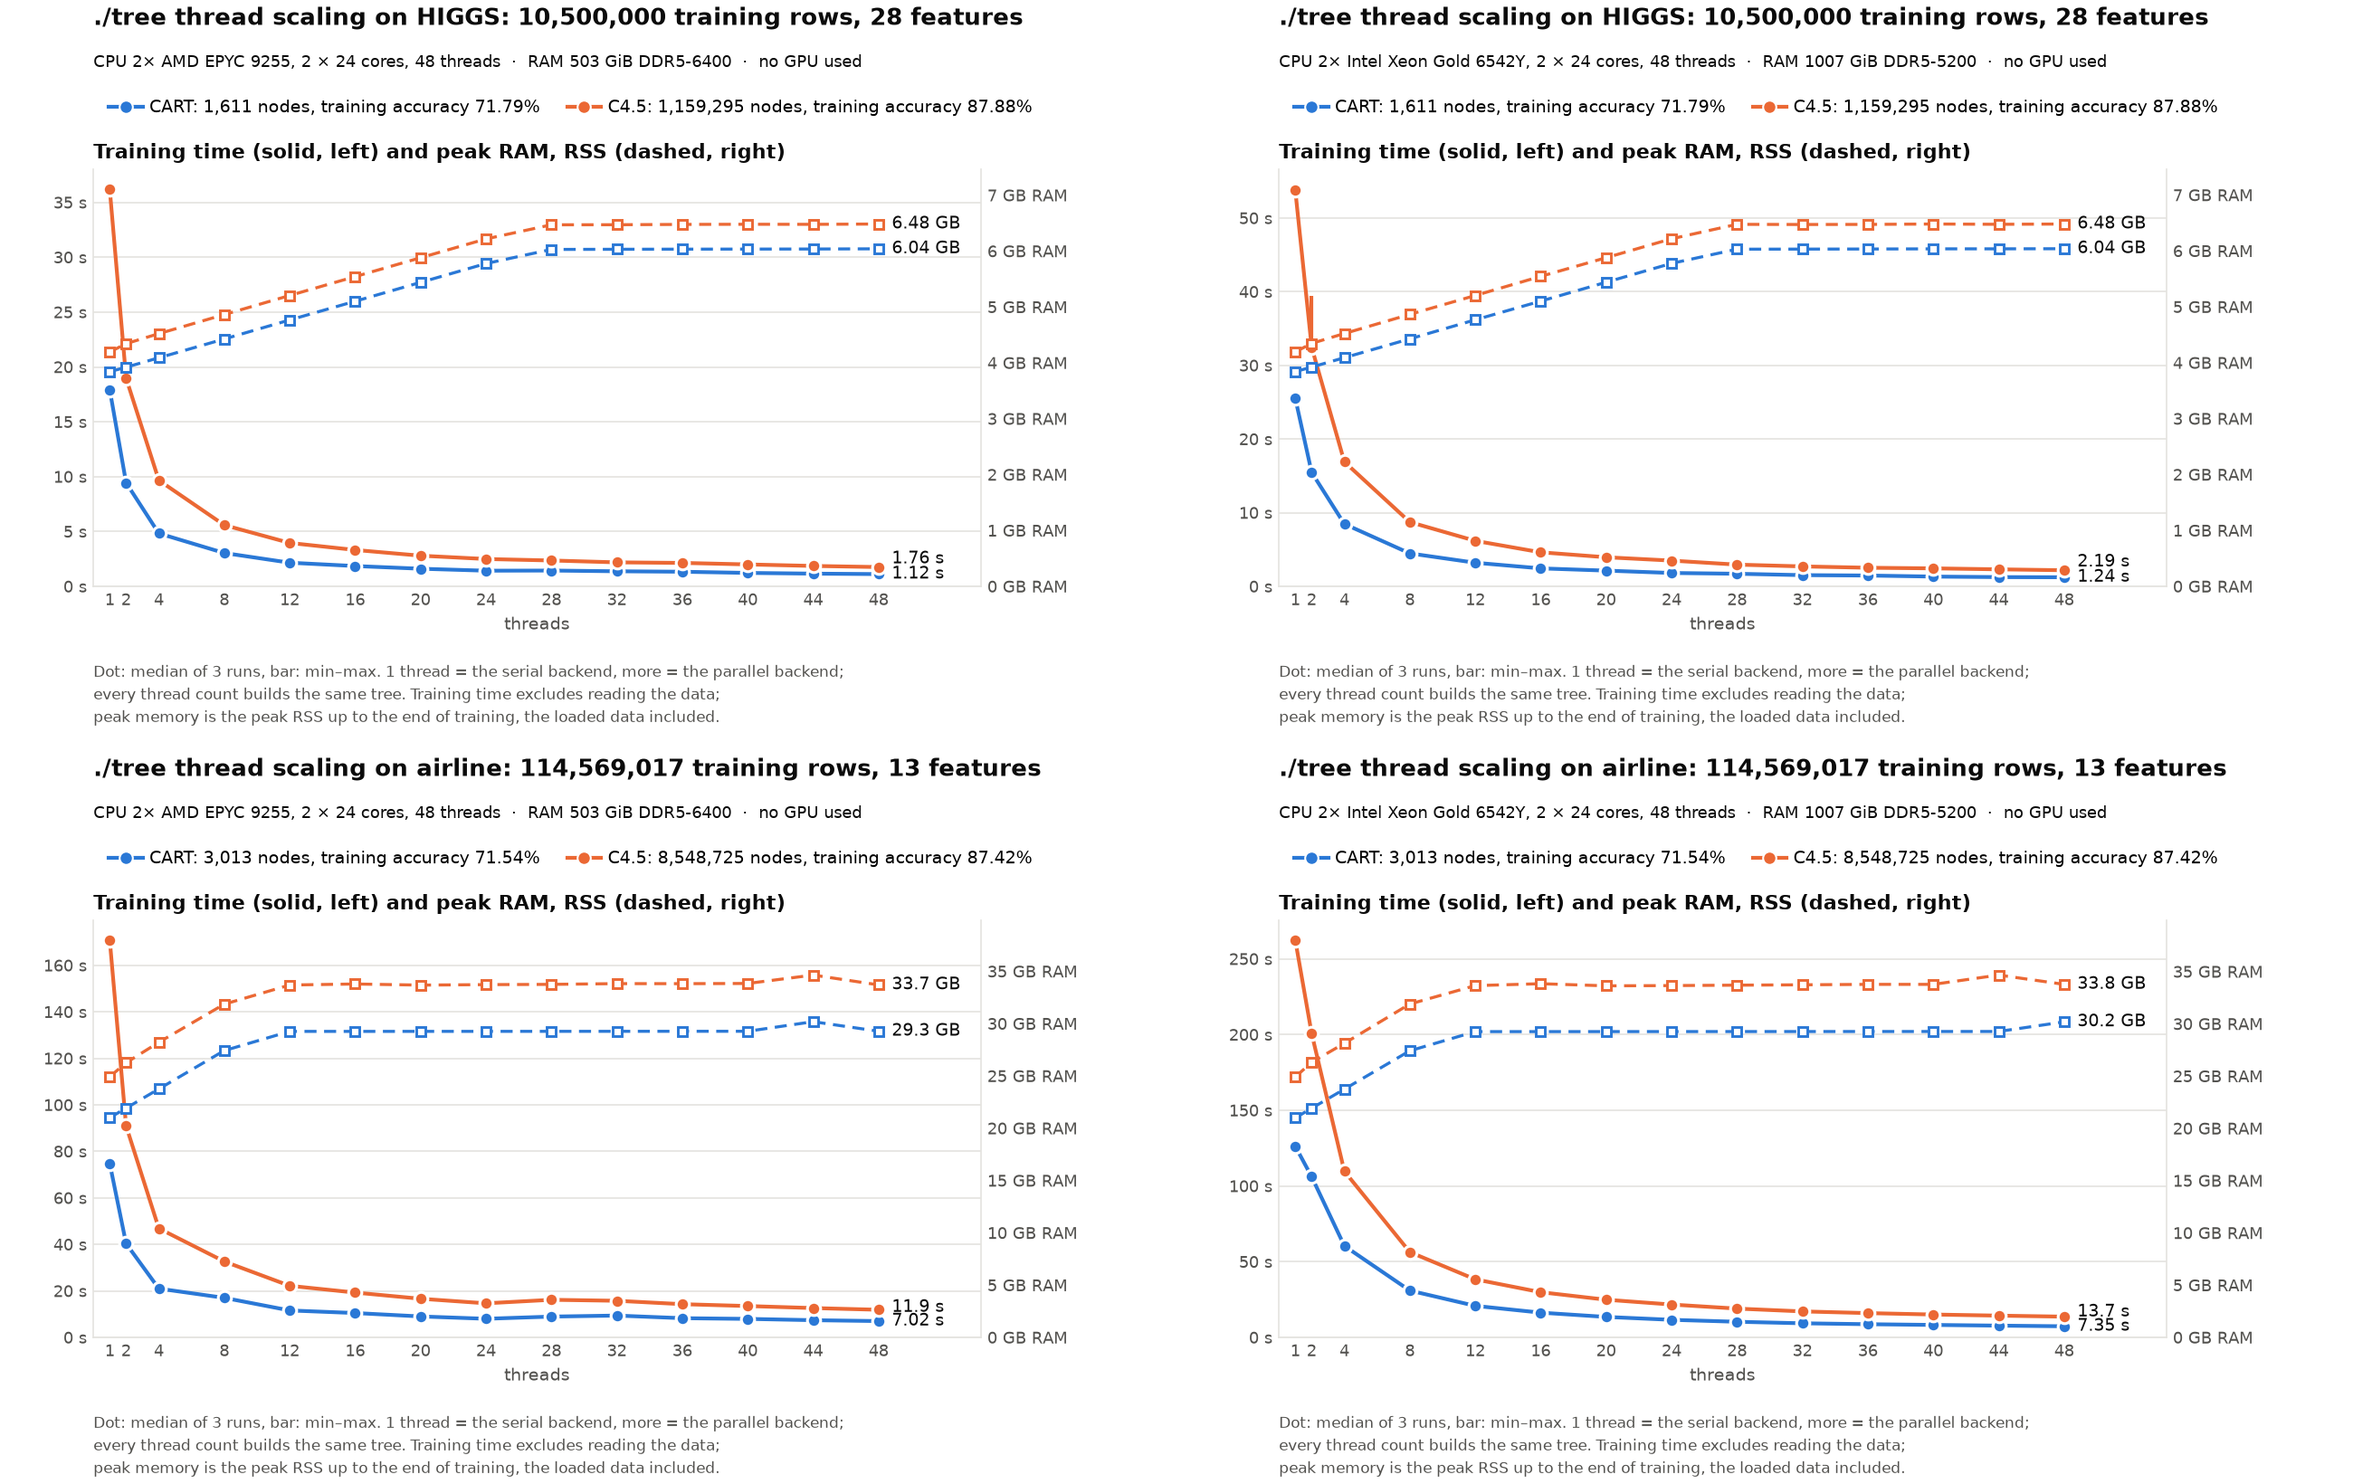
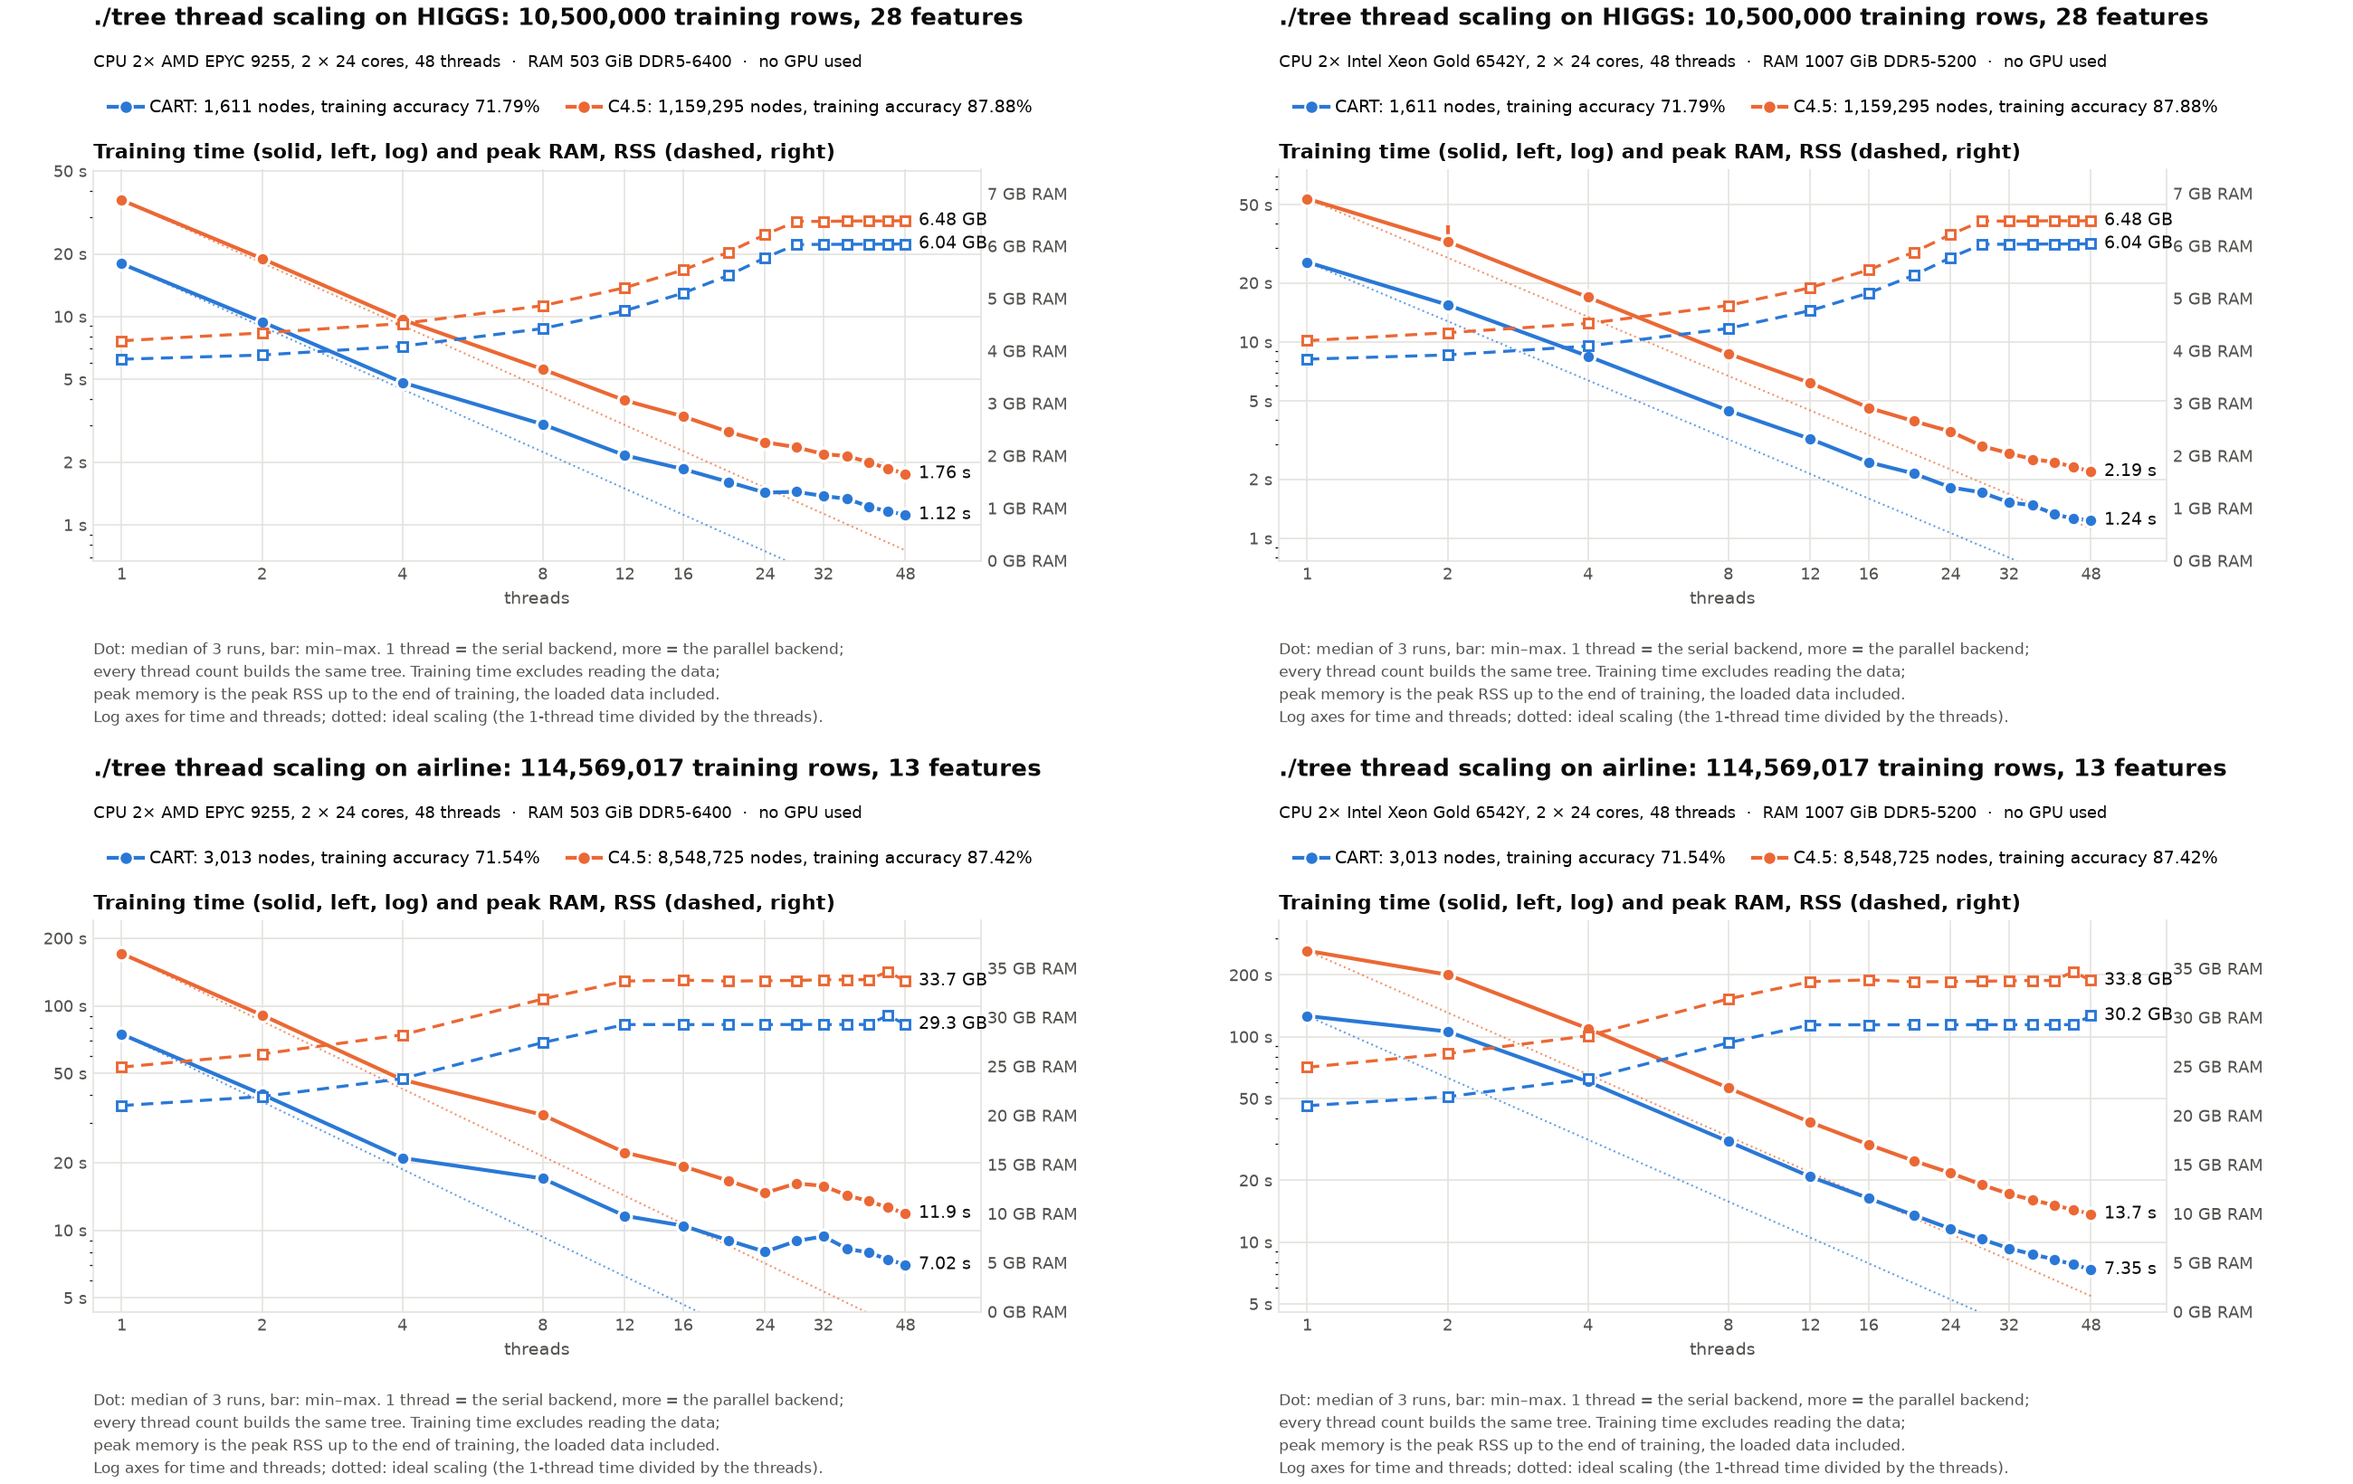
Log scales where the bars span 10x: machines charts by default, gpu-libs time panels, thread scaling log-log
machines_chart.py: --log is the default when the slowest bar takes 10x the
fastest (--linear: never). summarize.py (gpu-libs): the same rule per time
panel. scaling_chart.py: threads and time on log axes with a dotted ideal
scaling line; memory stays linear. Redrawn: cluster-cpu-scaling, gpu-libs.

diff --git a/bench/scaling_chart.py b/bench/scaling_chart.py
@@ -2,6 +2,8 @@
 """Thread-scaling chart of ./tree: training time (solid lines, left axis) and peak
 memory (dashed lines, right axis) against the number of threads, one colour per
 protocol (CART, C4.5); dot = median over the runs, bar = min-max of the time.
+Threads and time on log axes, so that ideal scaling (dotted: the 1-thread time
+divided by the threads) is a straight line; memory on a linear axis.
 
 Also writes scaling.csv: one row per (protocol, threads) with the median time,
 speedup over 1 thread (serial backend), parallel efficiency and peak RSS.
@@ -21,7 +23,7 @@ import matplotlib
 matplotlib.use("Agg")
 import matplotlib.pyplot as plt  # noqa: E402
 from matplotlib.lines import Line2D  # noqa: E402
-from matplotlib.ticker import FuncFormatter  # noqa: E402
+from matplotlib.ticker import FuncFormatter, LogLocator, NullFormatter, NullLocator  # noqa: E402
 
 import benchlib as B  # noqa: E402
 from chart import GRID, INK, MUTED, NAMES  # noqa: E402
@@ -81,17 +83,21 @@ def figure(run, dataset, protocols, series, machine, out):
     meta = json.load(open(run / "plan.json"))["datasets"][dataset]
     threads = sorted({p["threads"] for points in series.values() for p in points})
     fig, ax = plt.subplots(figsize=(8.6, 5.4))
-    ax.set_xlim(0, max(threads) * 1.13)  # room for the end labels
-    ax.set_xticks(threads)
+    ax.set_xscale("log", base=2)
+    ax.set_xlim(min(threads) / 1.15, max(threads) * 1.45)  # room for the end labels
+    ax.xaxis.set_minor_locator(NullLocator())
+    ax.set_xticks([t for t in threads if t in (1, 2, 4, 8, 12, 16, 24, 32, 48, 64, 96, 128)
+                   or t == max(threads)])
+    ax.xaxis.set_major_formatter(FuncFormatter(lambda v, _: f"{v:g}"))
     ax.tick_params(colors=MUTED, labelsize=8.5, length=0)
     for side in ("top", "right"):
         ax.spines[side].set_visible(False)
     for side in ("left", "bottom"):
         ax.spines[side].set_color(GRID)
-    ax.grid(axis="y", color=GRID, linewidth=0.8)
+    ax.grid(axis="both", color=GRID, linewidth=0.8)
     ax.set_axisbelow(True)
     ax.set_xlabel("threads", fontsize=9, color=MUTED)
-    ax.set_title("Training time (solid, left) and peak RAM, RSS (dashed, right)", loc="left",
+    ax.set_title("Training time (solid, left, log) and peak RAM, RSS (dashed, right)", loc="left",
                  fontsize=10.5, color=INK, fontweight="bold")
     mem = ax.twinx()
     mem.tick_params(colors=MUTED, labelsize=8.5, length=0)
@@ -102,6 +108,10 @@ def figure(run, dataset, protocols, series, machine, out):
     for protocol in protocols:
         points, color = series[protocol], COLORS.get(protocol, INK)
         xs = [p["threads"] for p in points]
+        serial = next((p["time_median"] for p in points if p["threads"] == 1), None)
+        if serial:  # ideal scaling: n threads take 1/n of the serial time
+            ax.plot(xs, [serial / x for x in xs], color=color, linewidth=1, linestyle=":",
+                    alpha=0.7, zorder=1)
         ax.plot(xs, [p["time_median"] for p in points], color=color, linewidth=2, marker="o",
                 markersize=7, markeredgecolor="white", markeredgewidth=1.5, zorder=3)
         ax.vlines(xs, [p["time_min"] for p in points], [p["time_max"] for p in points],
@@ -109,7 +119,11 @@ def figure(run, dataset, protocols, series, machine, out):
         mem.plot(xs, [p["peak_rss_median"] / 1e9 for p in points], color=color, linewidth=1.6,
                  linestyle=(0, (4, 2.5)), marker="s", markersize=5, markerfacecolor="white",
                  markeredgecolor=color, markeredgewidth=1.4, zorder=3)
-    ax.set_ylim(bottom=0)
+    every = [p[k] for points in series.values() for p in points for k in ("time_min", "time_max")]
+    ax.set_yscale("log")
+    ax.set_ylim(min(every) / 1.6, max(every) * 1.4)
+    ax.yaxis.set_major_locator(LogLocator(base=10, subs=(1, 2, 5)))
+    ax.yaxis.set_minor_formatter(NullFormatter())
     ax.yaxis.set_major_formatter(FuncFormatter(lambda v, _: f"{v:g} s"))
     mem.set_ylim(0, 1.15 * max(p["peak_rss_median"] for points in series.values()
                                for p in points) / 1e9)
@@ -161,9 +175,10 @@ def figure(run, dataset, protocols, series, machine, out):
     fig.text(0.08, 0.015,
              f"Dot: {runs}. 1 thread = the serial backend, more = the parallel backend;\n"
              "every thread count builds the same tree. Training time excludes reading the data;\n"
-             "peak memory is the peak RSS up to the end of training, the loaded data included.",
+             "peak memory is the peak RSS up to the end of training, the loaded data included.\n"
+             "Log axes for time and threads; dotted: ideal scaling (the 1-thread time divided by the threads).",
              fontsize=8, color=MUTED, linespacing=1.5)
-    fig.subplots_adjust(left=0.08, right=0.84, top=1 - 1.25 / 5.4, bottom=0.2)
+    fig.subplots_adjust(left=0.08, right=0.84, top=1 - 1.25 / 5.4, bottom=0.235)
     fig.savefig(out, dpi=150, facecolor="white")
     return out
 

diff --git a/bench/results/cluster-tree-vs-gpu-libs/scripts/summarize.py b/bench/results/cluster-tree-vs-gpu-libs/scripts/summarize.py
@@ -19,7 +19,7 @@ import numpy as np
 import matplotlib
 matplotlib.use("Agg")
 import matplotlib.pyplot as plt  # noqa: E402
-from matplotlib.ticker import FuncFormatter  # noqa: E402
+from matplotlib.ticker import FuncFormatter, NullFormatter  # noqa: E402
 
 DATASETS = {"higgs": "HIGGS: 10,500,000 training rows, 28 features",
             "airline": "airline: 114,569,017 training rows, 13 features",
@@ -138,6 +138,8 @@ def chart(rows, dataset, path):
         mem = fig.add_subplot(grid[row_index, 1], sharey=ax)
         info = fig.add_subplot(grid[row_index, 2], sharey=ax)
         tmax = max(r["median_s"] for r in cr)
+        tmin = min(r["median_s"] for r in cr)
+        log = tmax >= 10 * tmin  # log time axis when the slowest bar is 10x the fastest
         mmax = max(r["gpu_peak_mib"] for r in cr) / 1024
         for i, node in enumerate(NODES):
             got = {r["impl"]: r for r in cr if r["node"] == node}
@@ -147,13 +149,18 @@ def chart(rows, dataset, path):
                     continue
                 v = got[k]["median_s"]
                 ax.barh(p, v, height=0.38, color=COLORS[node])
-                ax.text(v + tmax * 0.012, p, f"{v:.2f} s", va="center", fontsize=8.5, color=INK,
+                ax.text(v * 1.05 if log else v + tmax * 0.012, p, f"{v:.2f} s", va="center", fontsize=8.5, color=INK,
                         fontweight="bold" if is_tree(k) else "normal")
                 g = got[k]["gpu_peak_mib"] / 1024
                 mem.barh(p, g, height=0.34, facecolor="white", edgecolor=COLORS[node],
                          linewidth=1.6)
                 mem.text(g + mmax * 0.02, p, f"{g:.2f} GiB", va="center", fontsize=8.5, color=INK)
-        ax.set_xlim(0, tmax * 1.12)
+        if log:
+            ax.set_xscale("log")
+            ax.set_xlim(10 ** np.floor(np.log10(tmin)), tmax * 2.2)  # room for the labels
+            ax.xaxis.set_minor_formatter(NullFormatter())
+        else:
+            ax.set_xlim(0, tmax * 1.12)
         ax.set_ylim(-0.6, len(keys) - 0.4)
         ax.xaxis.set_major_formatter(FuncFormatter(lambda v, _: f"{v:g} s"))
         style(ax)
@@ -161,7 +168,7 @@ def chart(rows, dataset, path):
         for label, k in zip(ax.get_yticklabels(), keys):
             label.set_fontweight("bold" if is_tree(k) else "normal")
             label.set_color(INK)
-        ax.set_title(f"{CASES[case]}: training time", loc="left", fontsize=11, color=INK,
+        ax.set_title(f"{CASES[case]}: training time" + (" (log scale)" if log else ""), loc="left", fontsize=11, color=INK,
                      fontweight="bold", pad=10)
         mem.set_xlim(0, mmax * 1.3)
         mem.xaxis.set_major_formatter(FuncFormatter(lambda v, _: f"{v:g} GiB"))
@@ -198,7 +205,7 @@ def chart(rows, dataset, path):
     fig.text(0.01, 0.012,
              f"Time: median of {run_text} runs, from host memory to the finished tree (copy to the "
              "GPU, binning or presort, growing). VRAM: peak GPU memory above idle, CUDA context and "
-             "memory pools included (nvidia-smi, every 20 ms).\n"
+             "memory pools included (nvidia-smi, every 20 ms). Time on a log axis where the slowest bar is 10x the fastest.\n"
              "Bins: the libraries split only at the edges of per-feature quantile bins; ./tree tests "
              "every distinct value. Same as ./tree: share of test rows classified as by ./tree's tree.\n"
              "C4.5: ./tree follows Quinlan's C4.5 (gain ratio, MDL-corrected thresholds, at least 2 rows "

diff --git a/bench/machines_chart.py b/bench/machines_chart.py
@@ -19,9 +19,10 @@ prepared files in plan.json) or did not build the same trees.
 run and a dot per run, and writes their min and max.
 
 --log draws the time and memory axes on a log scale (sizes that differ by
-orders of magnitude, e.g. serial against CUDA) and writes every case's recorded
-pruning time next to its bar (if any), also for the unpruned protocols (where it
-is only C4.5's collapse of useless splits) and below 1%.
+orders of magnitude, e.g. serial against CUDA), the default when the slowest
+bar takes 10 times the fastest or more (--linear: never), and writes every
+case's recorded pruning time next to its bar (if any), also for the unpruned
+protocols (where it is only C4.5's collapse of useless splits) and below 1%.
 
 --more adds the cases of later runs kept in another directory under the same
 run names (e.g. cluster-ecbdl/unpruned/cpu-epyc-ecbdl next to
@@ -198,8 +199,12 @@ def main():
                         help="draw each time bar's min-max whisker and every run as a dot")
     parser.add_argument("--no-vram", action="append", default=[], metavar="RUN",
                         help="a run name whose VRAM sample is wrong: drawn without VRAM (repeatable)")
-    parser.add_argument("--log", action="store_true",
-                        help="log-scale axes, and every case's recorded pruning time")
+    scale = parser.add_mutually_exclusive_group()
+    scale.add_argument("--log", action="store_true", default=None,
+                       help="log-scale axes, and every case's recorded pruning time "
+                       "(default: when the slowest bar takes 10× the fastest or more)")
+    scale.add_argument("--linear", dest="log", action="store_false",
+                       help="linear axes, however far apart the bars are")
     parser.add_argument("--more", action="append", type=Path, default=[],
                         help="a directory with later runs of the same names, e.g. other "
                         "protocols (repeatable)")
@@ -208,13 +213,14 @@ def main():
     NO_VRAM.update(args.no_vram)
     global SPREAD, LOG
     SPREAD = args.spread
-    LOG = args.log
     PROTOCOLS.clear()
     PROTOCOLS.update((p, TITLES[p]) for p in args.protocols.split(","))
     runs = list(args.reference) + list(args.runs)
     out = args.out or args.runs[0] / "chart.png"
     dataset, meta = check_same(runs)
     entries = [b for run in runs for b in bars(run, run in args.reference)]
+    times = [e["time"] for e in entries]
+    LOG = args.log if args.log is not None else max(times) >= 10 * min(times)
     for protocol in PROTOCOLS:
         trees = {e["tree"][:2] for e in entries if e["protocol"] == protocol}
         if len(trees) > 1:

diff --git a/bench/results/cluster-tree-vs-gpu-libs/BENCHMARK.md b/bench/results/cluster-tree-vs-gpu-libs/BENCHMARK.md
@@ -283,7 +283,7 @@ venv/bin/python summarize.py results <out dir>
 
 | File | Content |
 |---|---|
-| `chart-higgs.png`, `chart-airline.png`, `chart-ecbdl_15m.png`, `chart-chess_1b.png` | Per dataset, CART and C4.5: training time per library and GPU, peak VRAM, and each tree's node count, depth, test accuracy and agreement with ./tree |
+| `chart-higgs.png`, `chart-airline.png`, `chart-ecbdl_15m.png`, `chart-chess_1b.png` | Per dataset, CART and C4.5: training time per library and GPU (log axis where the slowest bar is 10× the fastest), peak VRAM, and each tree's node count, depth, test accuracy and agreement with ./tree |
 | `summary.csv` | One row per dataset, node, case and library: times, tree size, accuracies, agreement, VRAM, root split |
 | `higgs/`, `airline/`, `ecbdl_15m/`, `chess_1b/` | `<node>/results.jsonl` (every run), `<node>/machine.json` |
 | `scripts/` | `build.sh`, `job.sh` (SLURM), `gpubench.py` (cuML, XGBoost), `treebench.py` (./tree), `summarize.py` (tables and charts), `requirements-freeze.txt` |

diff --git a/bench/results/cluster-cpu-scaling/BENCHMARK.md b/bench/results/cluster-cpu-scaling/BENCHMARK.md
@@ -29,7 +29,7 @@ bench/cluster/scaling.sh -m 3 -d airline   # airline
 
 So on epyc1 up to 24 threads stay on one socket, and the second socket joins from 28 on. On dell1 every thread count from 2 on is spread over both sockets.
 
-All four charts in one image (HIGGS above airline, epyc left, dell right):
+All four charts in one image (HIGGS above airline, epyc left, dell right). Threads and time are on log axes, so ideal scaling (dotted: the 1-thread time divided by the threads) is a straight line:
 
 ![Thread scaling on epyc1 and dell1, HIGGS and airline](chart.png)
 
